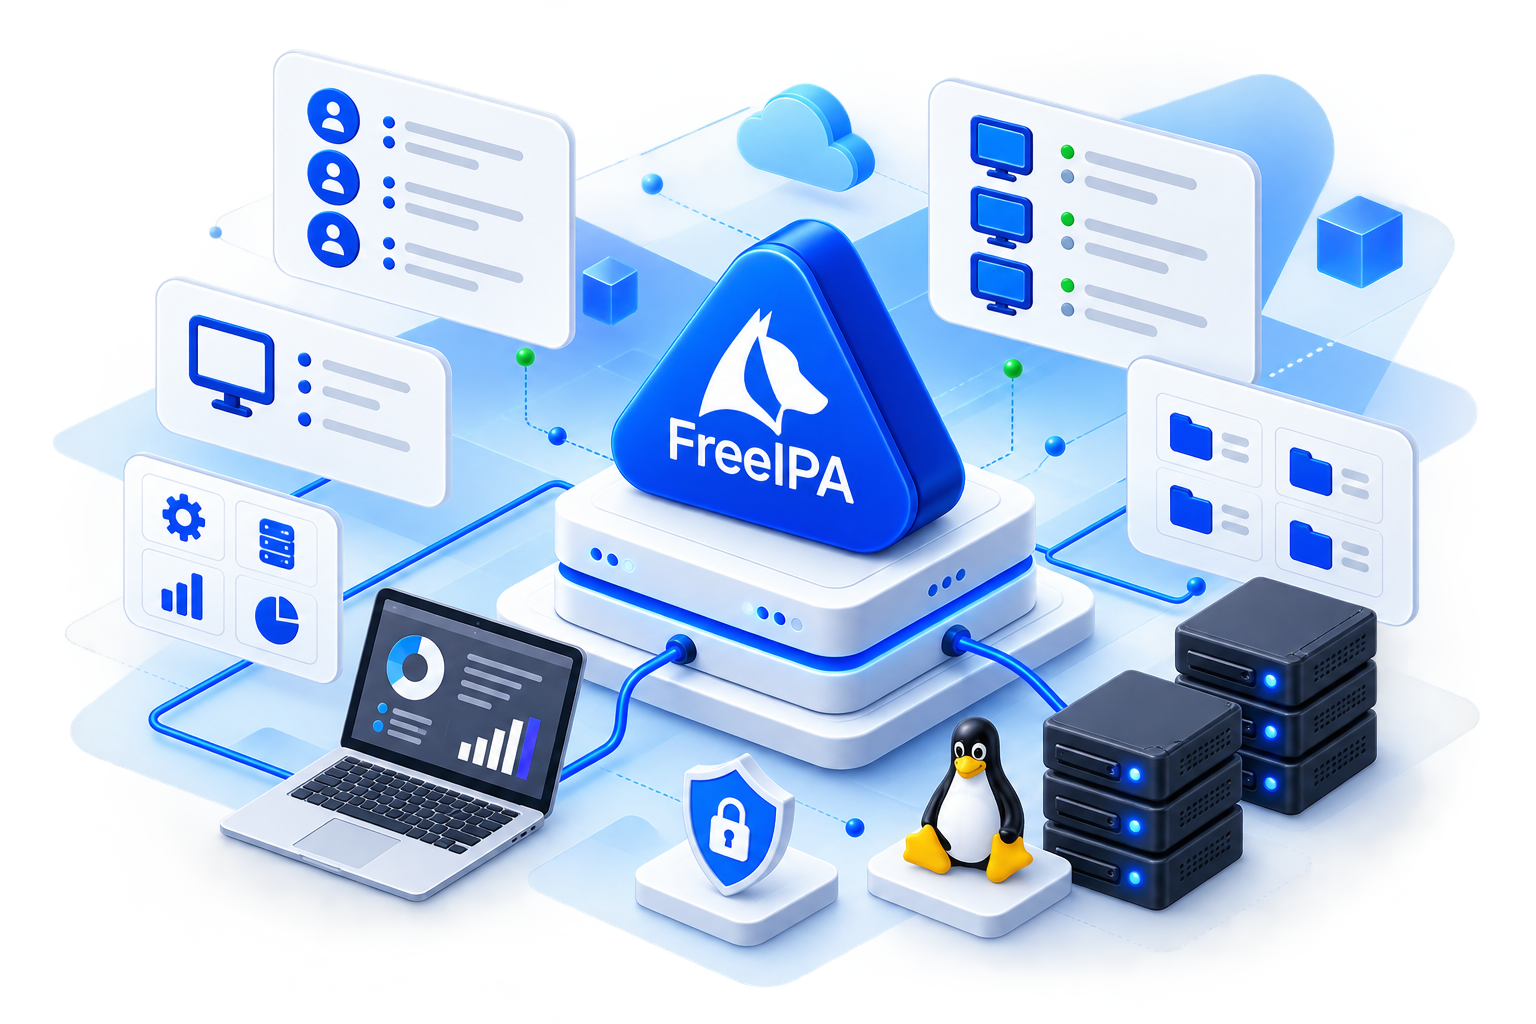
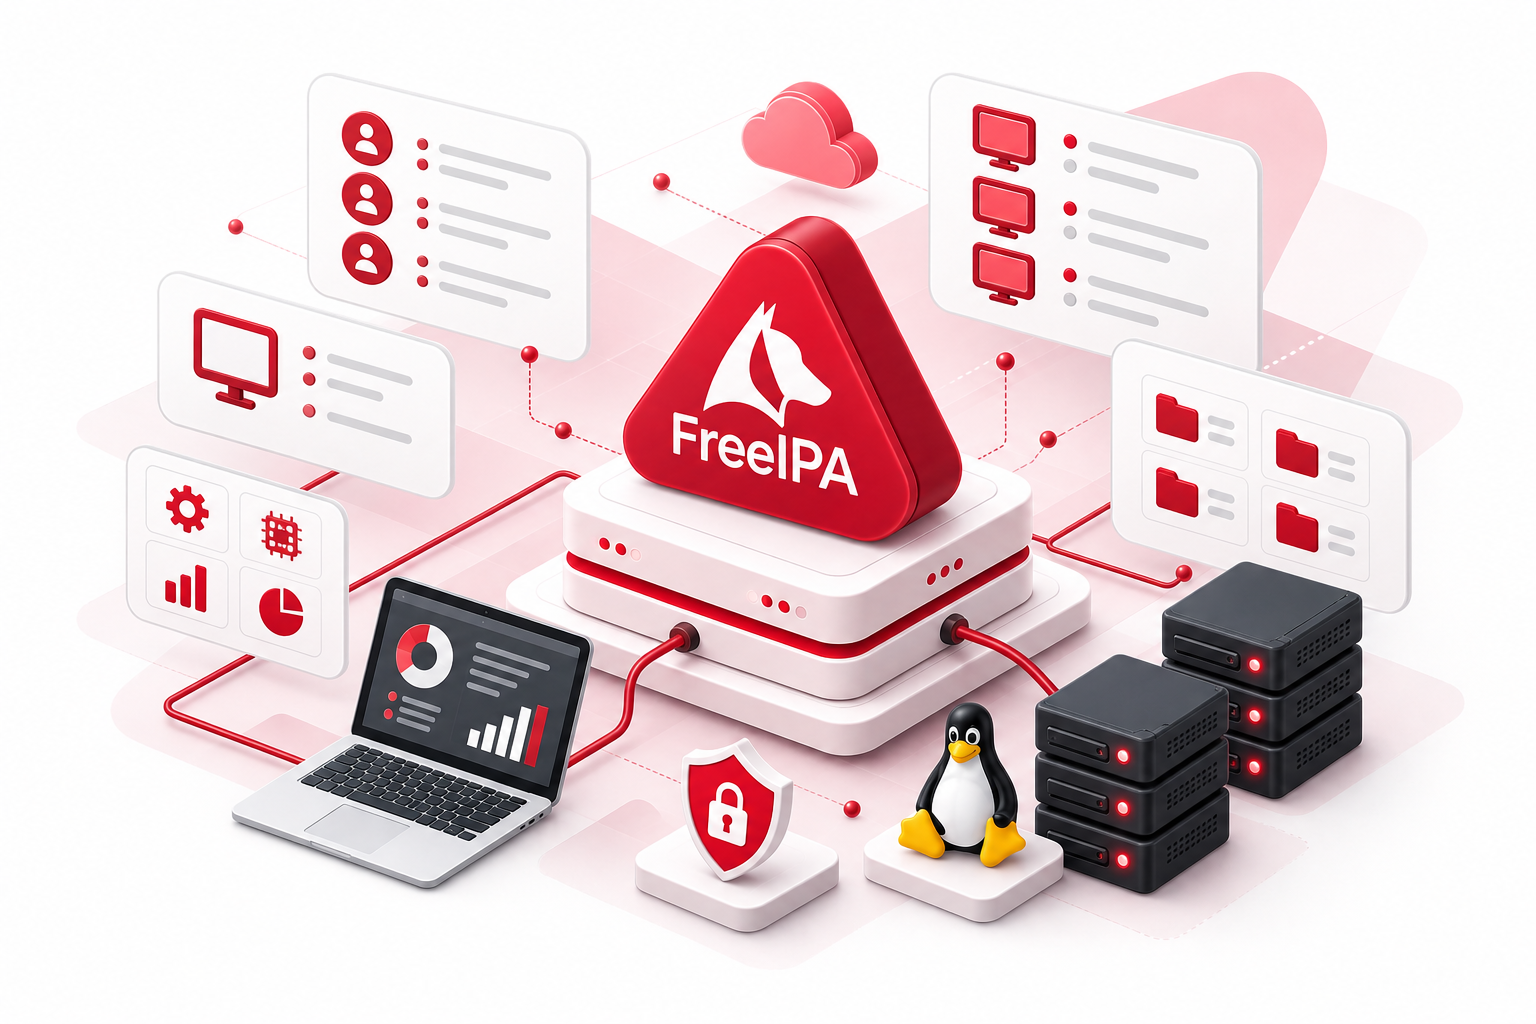
FreeIPA landing: replace hero with red FreeIPA illustration

diff --git a/istochniki/freeipa/index.html b/istochniki/freeipa/index.html
@@ -1272,7 +1272,7 @@
           <div class="hero__visual">
             <img
               class="hero__img"
-              src="assets/hero-freeipa.png?v=2"
+              src="assets/hero-freeipa.png?v=3"
               width="1536"
               height="1024"
               alt="Инвентаризация FreeIPA в ИТМен: пользователи и устройства"
